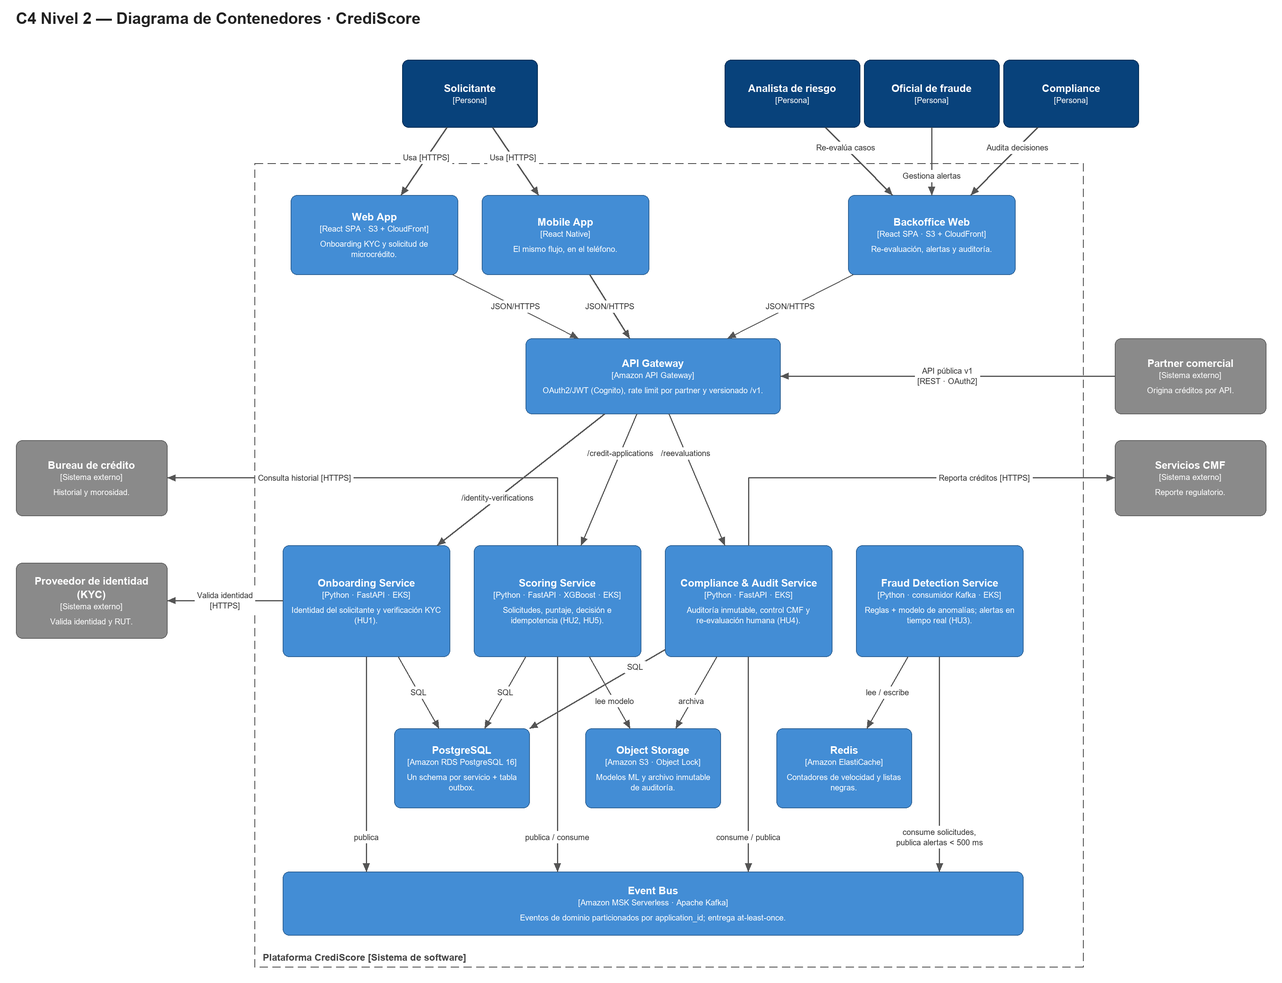
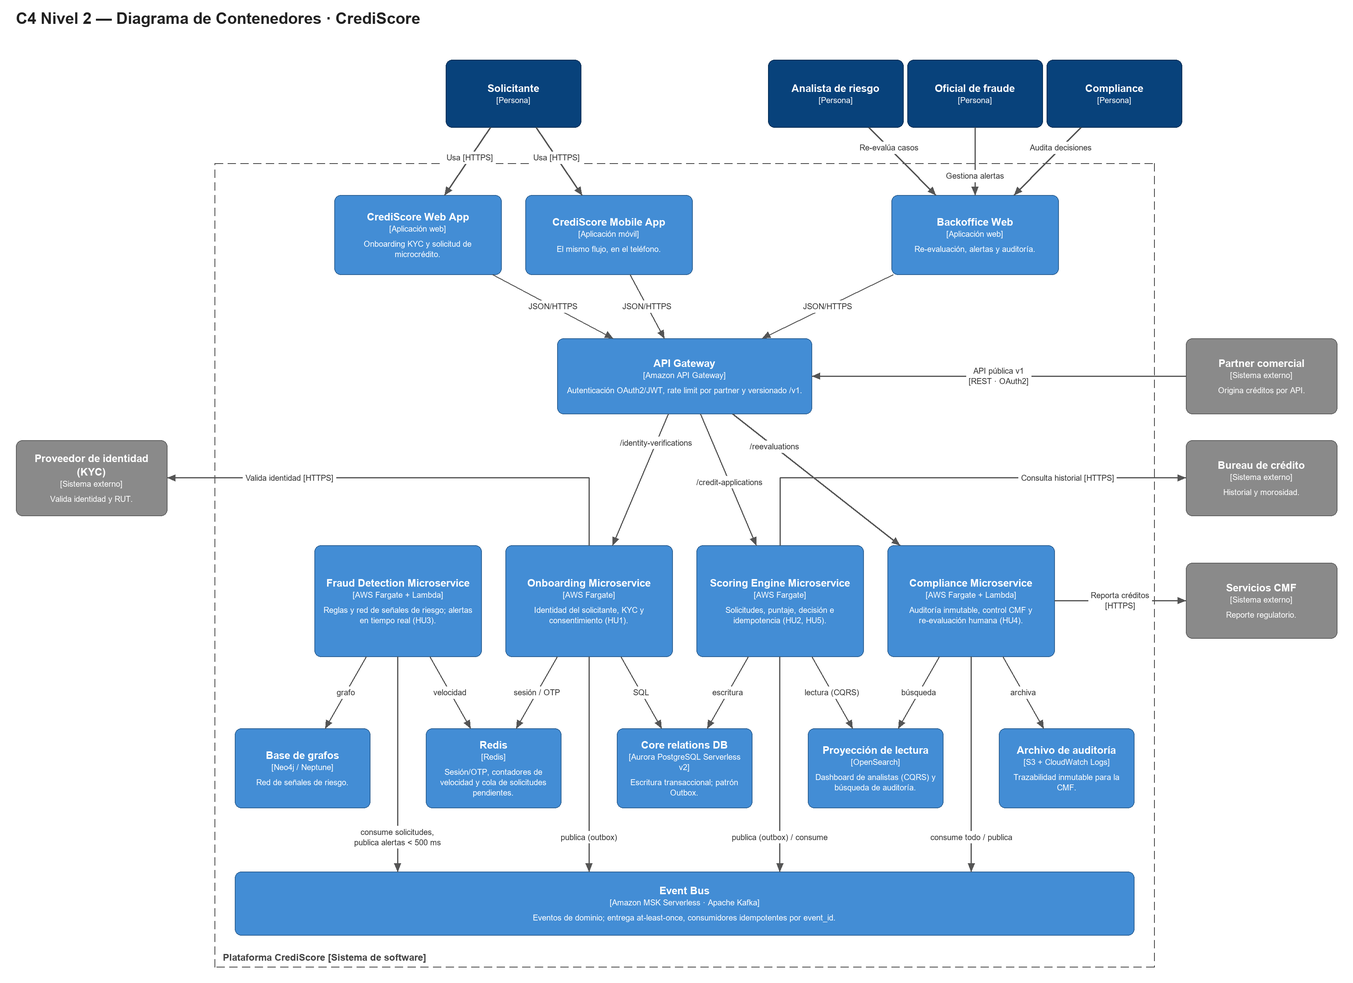
docs(s04): alinea ADR 0003, checklist y C4 L2 a la presentacion de S04
El contenido de S04 mergeado en el PR #1 no coincidia con lo que el equipo presento el 9 de septiembre.
- ADR 0003: AWS, despliegue hibrido (Fargate + Lambda), Aurora PostgreSQL Serverless v2, MSK Serverless.
- Checklist 12-Factor: estados, acciones y responsables de la presentacion (3 cumple, 9 no cumple).
- Servicios gestionados: los 5 de la presentacion mas los motores de S06.
- C4 L2: nombres de contenedores y tecnologias de la presentacion.

diff --git a/docs/adr/0003-cloud-style.md b/docs/adr/0003-cloud-style.md
@@ -1,46 +1,55 @@
-# ADR 0003: Estilo cloud y plataforma de despliegue
+# ADR 0003: Estilo cloud y servicios gestionados
 
-**Fecha:** 2026-10-01  
+**Fecha:** 2026-09-09 (decisión presentada en la S04; documentada en el repositorio el 2026-10-01)  
 **Estado:** Aceptado  
-**Relacionado con:** [ADR 0002](0002-estilo-arquitectonico.md) (estilo arquitectónico), [ADR 0004](0004-datos-y-eventos.md) (datos y eventos)
+**Relacionado con:** [ADR 0002](0002-estilo-arquitectonico.md), [checklist 12-Factor](../12-factor-checklist.md), [servicios gestionados](../arch/managed-services.md)
 
 ## Contexto
-El ADR 0002 eligió microservicios orientados a eventos. Esa decisión tiene un costo que no quedó acotado: el equipo es de 6 personas, sin SRE dedicado, y el criterio del taller dice que con menos de 15 personas y un MVP lo adecuado es un monolito modular. Hay que decidir cómo se despliega en la nube sin que la operación se coma al equipo.
+El ADR 0002 definió microservicios orientados a eventos. Falta fijar tres decisiones para poder desplegar:
 
-Fuerzas en juego:
-* **Latencia:** alertas de fraude propagadas en < 500 ms y decisión de crédito en < 60 s p95.
-* **Perfiles de carga distintos:** el camino de fraude es asíncrono y de ráfagas; el scoring es inferencia de ML y se vuelve a liberar con cada reentrenamiento.
-* **Capacidad operacional:** un solo DevSecOps. Nadie puede operar un clúster de Kafka un sábado.
-* **Curso:** las sesiones S07 y S08 trabajan con manifiestos de Kubernetes y GitOps.
+1. El proveedor cloud tentativo (AWS, Azure o GCP).
+2. El estilo de despliegue: monolito modular, microservicios en contenedores, serverless o un modelo híbrido.
+3. Qué *backing services* opera el equipo y cuáles se delegan al proveedor.
+
+Restricciones que condicionan la decisión: decisión de crédito en < 60 s p95, propagación de fraude en < 500 ms, idempotencia estricta, trazabilidad inmutable para auditorías CMF y un equipo de 6 personas sin SRE dedicado 24/7.
 
 ## Decisión
-Microservicios **acotados a 4 servicios desplegables** (Onboarding, Scoring, Fraud Detection, Compliance & Audit) sobre **AWS**, con **todo lo que no es núcleo del producto delegado a servicios gestionados**: Amazon EKS, API Gateway, RDS PostgreSQL, MSK Serverless, ElastiCache, S3, Cognito y Secrets Manager. La selección por contenedor está en [managed-services.md](../arch/managed-services.md).
 
-Reglas que acotan el costo:
-1. No se crea un quinto servicio sin un ADR nuevo.
-2. Un solo monorepo y una sola instancia de RDS con un schema por servicio; ningún servicio lee el schema de otro.
-3. Los servicios se comunican por eventos. La única llamada síncrona entre contenedores es la del API Gateway hacia cada servicio.
+**Proveedor cloud tentativo: AWS.** Encaja con Apache Kafka (ADR 0002) a través de Amazon MSK y ofrece el ecosistema gestionado más maduro para arquitecturas de eventos.
+
+**Estilo de despliegue: híbrido.**
+* **Contenedores (AWS Fargate)** para Onboarding, Scoring y la validación síncrona de Fraude. No tienen *cold starts* y sostienen el p95 de 60 s.
+* **Serverless (AWS Lambda)** para los consumidores asíncronos del Event Bus: notificaciones, reportes CMF por lotes y *feature engineering*.
+
+**Backing services gestionados:**
+
+| Necesidad | Servicio |
+| :--- | :--- |
+| Entrada de la API | Amazon API Gateway |
+| Base relacional | Amazon Aurora PostgreSQL Serverless v2 |
+| Event Bus | Amazon MSK Serverless |
+| Configuración y secretos | AWS Secrets Manager |
+| Logs | Amazon CloudWatch Logs + OpenSearch |
+| Artefactos y modelos de ML | Amazon S3 |
+
+El detalle por contenedor está en [managed-services.md](../arch/managed-services.md). Los motores de datos de cada contexto se deciden en el [ADR 0004](0004-datos-y-eventos.md).
 
 ## Consecuencias
 
 ### Positivas
-* El camino de fraude escala y falla de forma independiente al scoring (*bulkhead*).
-* El Scoring Service se libera con cada modelo nuevo sin tocar onboarding ni auditoría.
-* El equipo no opera brokers, bases de datos ni planos de control: se paga por ellos.
-* Los manifiestos de S07 y el pipeline de S08 se aplican directamente sobre EKS.
+* Cero gestión de servidores en Fargate, MSK y Aurora Serverless: el equipo se enfoca en scoring y fraude, no en infraestructura.
+* Escalado elástico alineado a los atributos de latencia y a los picos de fraude.
+* Costos variables (pago por uso), razonables para un MVP académico.
+* Logs inmutables (CloudWatch + S3) y CloudTrail facilitan las auditorías CMF.
 
 ### Negativas
-* Costo fijo mensual mayor que el de un monolito en un solo contenedor (EKS, MSK y RDS cobran aunque no haya tráfico).
-* Consistencia eventual entre servicios: una solicitud puede verse `received` mientras fraude y scoring aún no terminan.
-* Depurar un flujo exige trazas distribuidas (`trace_id` en cada evento y cada log) desde el primer día.
-* Acoplamiento a AWS. Se mitiga usando interfaces estándar: SQL, protocolo Kafka, API S3 y OIDC.
-
-### Plan de repliegue
-Si a la S12 el equipo no logra operar 4 servicios, Onboarding y Compliance & Audit se fusionan en un solo desplegable. Fraud Detection y Scoring se mantienen separados porque son los que justifican la decisión.
+* *Vendor lock-in* parcial a AWS (MSK, Aurora); se mitiga con Ports & Adapters.
+* *Cold start* de Lambda si se usa en el camino síncrono crítico; por eso se limita a consumidores asíncronos.
+* Requiere gobierno de costos (FinOps) sobre MSK y Aurora cuando crezca el tráfico.
+* Curva de aprendizaje del equipo en servicios gestionados de AWS.
 
 ## Alternativas descartadas
-* **Monolito modular en un solo contenedor:** es lo que recomienda el criterio de tamaño de equipo y sería más barato y simple. Se descarta porque obliga a escalar juntos el consumo de eventos de fraude y la inferencia de ML, y porque cada reentrenamiento redeplegaría todo el sistema. Es el plan de repliegue parcial descrito arriba.
-* **Serverless (Lambda + API Gateway):** costo por uso y cero servidores. Se descarta por los *cold starts* al cargar el modelo de ML y porque no garantiza la propagación de fraude en < 500 ms.
-* **ECS Fargate en vez de EKS:** menos operación que Kubernetes. Se descarta porque el curso usa manifiestos de Kubernetes, Helm y GitOps en S07 y S08; con ECS habría que mantener dos formas de desplegar.
-* **Kafka autogestionado en EC2:** más barato en infraestructura. Se descarta por la regla del "sábado a las 3 PM": exige operar brokers, particiones y actualizaciones sin un SRE.
-* **Azure o GCP:** equivalentes funcionales. Se elige AWS porque MSK Serverless ofrece el protocolo Kafka que el ADR 0002 ya asume, sin administrar brokers.
+* **Monolito modular sobre EC2 o máquinas virtuales:** no permite escalar el motor de fraude de forma independiente del scoring; el escalado vertical no sostiene los picos de fraude.
+* **100% serverless (Lambda + DynamoDB + SQS):** los *cold starts* ponen en riesgo el p95 del camino síncrono, y DynamoDB no encaja con el modelo relacional y transaccional del core de créditos.
+* **Kubernetes autogestionado o Kafka en EC2:** regla del "sábado a las 3 PM"; el equipo no tiene un SRE dedicado para operar el clúster.
+* **Multi-cloud desde el día 1:** complejidad injustificada para un MVP. Queda como evolución futura (recuperación ante desastres), mitigada por Ports & Adapters.

diff --git a/docs/12-factor-checklist.md b/docs/12-factor-checklist.md
@@ -1,26 +1,31 @@
 # Checklist 12-Factor — CrediScore
 
-Auditoría del diseño ([C4 L2](c4/l2-container.png), [ADR 0003](adr/0003-cloud-style.md)) contra los 12 factores. El repositorio todavía no tiene código, así que **Cumple** significa que el diseño ya lo resuelve y **No cumple** que hay una brecha con una acción asignada.
+Auditoría del diseño ([C4 L2](c4/l2-container.png)) contra los 12 factores, presentada en la S04. El repositorio todavía no tiene código: **Cumple** significa que el diseño ya lo resuelve y **No cumple** que hay una brecha con acción y responsable. Las decisiones de plataforma están en el [ADR 0003](adr/0003-cloud-style.md).
 
-| # | Factor | Estado | Evidencia o brecha | Acción | Responsable |
-| :-: | :--- | :--- | :--- | :--- | :--- |
-| 01 | Codebase | No cumple | El repo solo tiene documentación; los 4 servicios compartirán un monorepo. | Un directorio por servicio (`services/<servicio>/`) con build y pipeline propios. Prohibido copiar código entre servicios: lo compartido son los contratos (`api/`, catálogo de eventos). | Tech Lead |
-| 02 | Dependencies | No cumple | No hay manifiestos de dependencias. | `pyproject.toml` + lockfile por servicio, `package-lock.json` en los frontends e imágenes Docker sin librerías instaladas a mano. | DevSecOps |
-| 03 | Config | Cumple | Toda la configuración entra por variables de entorno (`DATABASE_URL`, `KAFKA_BOOTSTRAP_SERVERS`, `REDIS_URL`, `KYC_API_URL`, `BUREAU_API_URL`, `MODEL_URI`); los secretos viven en AWS Secrets Manager. | Publicar `.env.example` por servicio; `.env` ya está en `.gitignore`. | DevSecOps |
-| 04 | Backing services | Cumple | PostgreSQL, Kafka, Redis, S3, KYC y bureau se adjuntan por URL; cambiar de proveedor no exige recompilar. | Acceder a KYC y bureau detrás de una interfaz (Ports & Adapters) para poder simularlos. | Tech Lead |
-| 05 | Build, release, run | No cumple | No existe pipeline. | GitHub Actions construye una imagen por commit (tag = SHA) y la publica en ECR; release = imagen + configuración del ambiente; nunca se edita en ejecución. Se implementa en S08. | DevSecOps |
-| 06 | Processes | Cumple | Los servicios no guardan estado: solicitudes y claves de idempotencia en PostgreSQL, contadores de fraude en Redis, modelo de ML de solo lectura. | Prohibir sesiones en memoria en la revisión de PR. | Tech Lead |
-| 07 | Port binding | Cumple | Cada servicio expone HTTP con uvicorn en `$PORT`; no depende de un servidor de aplicaciones externo. | — | Tech Lead |
-| 08 | Concurrency | Cumple | Tres tipos de proceso por servicio (`web`, `consumer`, `outbox-relay`) que escalan por réplicas; el consumo se reparte con particiones y *consumer groups* de Kafka. | Definir HPA por tipo de proceso en S07. | DevSecOps |
-| 09 | Disposability | No cumple | El Scoring Service carga el modelo de ML al arrancar, lo que alarga el inicio. | *Readiness probe* que solo pasa con el modelo cargado; al recibir SIGTERM se deja de consumir, se confirman offsets y se termina en < 30 s. Medir el arranque y fijar un máximo de 20 s. | AI/Data |
-| 10 | Dev/prod parity | No cumple | No hay ambiente de desarrollo definido. | `docker-compose` con PostgreSQL 16, Kafka y Redis en las mismas versiones mayores que producción, LocalStack para S3 y Prism para simular KYC y bureau. Prohibido SQLite. | QA |
-| 11 | Logs | Cumple | Logs JSON a stdout con `trace_id` y `application_id`, recolectados por CloudWatch. | Enmascarar el RUT y no registrar datos personales; añadir una prueba que falle si aparece un RUT en los logs. | QA |
-| 12 | Admin processes | No cumple | No hay mecanismo de migraciones ni tareas puntuales. | Migraciones con Alembic como *Job* de Kubernetes desde la misma imagen; el control normativo diario (HU4) y el reentrenamiento como *CronJob*. Nada por SSH. | DevSecOps |
+| # | Factor | Estado | Acción concreta | Responsable |
+| :-: | :--- | :--- | :--- | :--- |
+| 01 | Codebase | No cumple | Un repositorio por servicio, con pipeline de CI independiente. | Martin Jara |
+| 02 | Dependencies | No cumple | Manifiesto de dependencias aislado e imagen Docker propia por servicio. | Benjamín Garrido |
+| 03 | Config | No cumple | Variables de entorno + AWS Secrets Manager; sin archivos `config.*.json` en el repo. | Martin Jara |
+| 04 | Backing services | Cumple | Formalizar base de datos, Event Bus y KYC como URL inyectada por variable de entorno. | Benjamín Garrido |
+| 05 | Build, release, run | No cumple | CI/CD: build → imagen versionada en ECR → deploy. | Martin Jara |
+| 06 | Processes | Cumple | Confirmar que los servicios son *stateless*: sesión vía JWT, sin estado local. | Abdiel Ortiz / Nelson Arevalo |
+| 07 | Port binding | Cumple | Cada imagen expone su propio puerto, sin servidor de aplicaciones externo. | Benjamín Garrido |
+| 08 | Concurrency | No cumple | Auto-scaling horizontal (ECS) en Scoring y Fraude. | Martin Jara |
+| 09 | Disposability | No cumple | *Graceful shutdown* (SIGTERM < 30 s) en los microservicios. | Justin Navarro |
+| 10 | Dev/prod parity | No cumple | Docker Compose local con PostgreSQL y Kafka reales. | Justin Navarro |
+| 11 | Logs | No cumple | JSON a stdout, centralizado en CloudWatch / OpenSearch. | Martin Jara |
+| 12 | Admin processes | No cumple | Migraciones (Flyway) como *Job* del mismo pipeline. | Martin Jara |
 
 ## Resumen
 
-* **Cumple:** 6 de 12 (03, 04, 06, 07, 08, 11).
-* **No cumple:** 6 de 12 (01, 02, 05, 09, 10, 12); todos tienen acción y responsable.
+* **Cumple:** 3 de 12 (04, 06, 07).
+* **No cumple:** 9 de 12; todos con acción y responsable.
 * **No aplica:** ninguno.
 
-Los factores 01, 02, 05, 10 y 12 se cierran al crear el esqueleto de servicios y el pipeline (S07 y S08). El 09 depende del tamaño del modelo y se verifica con una medición, no con una revisión de diseño.
+## Brechas prioritarias antes de desplegar
+
+1. **Build, release, run (05).** Sin pipeline las tres etapas se mezclan: no hay forma de garantizar que lo que se prueba es lo que se despliega.
+2. **Concurrency (08).** Scoring y Fraude deben escalar horizontalmente de forma independiente para sostener la propagación de fraude en < 500 ms bajo carga.
+3. **Disposability (09).** Un cierre no controlado puede perder eventos de fraude en vuelo y romper la idempotencia y la trazabilidad CMF.
+4. **Logs (11).** Sin logs estructurados y centralizados no se puede auditar una decisión de crédito ante la CMF.

diff --git a/docs/arch/managed-services.md b/docs/arch/managed-services.md
@@ -1,28 +1,24 @@
 # Servicios gestionados por contenedor
 
-Selección en AWS para cada contenedor del [C4 L2](../c4/l2-container.png), según el marco de decisión de la S04: se construye solo lo que diferencia al producto (scoring, reglas de fraude, auditoría) y se delega lo demás. La justificación del estilo está en el [ADR 0003](../adr/0003-cloud-style.md).
+Selección en AWS para los contenedores del [C4 L2](../c4/l2-container.png). Criterio base, del [ADR 0003](../adr/0003-cloud-style.md): lo que diferencia al producto se construye; si existe un servicio gestionado maduro, se usa; sin SRE dedicado, la operación se delega.
 
-| Contenedor | Servicio gestionado | Por qué | Alternativa descartada |
-| :--- | :--- | :--- | :--- |
-| Web App, Backoffice Web | **Amazon S3 + CloudFront** | Son SPA estáticas: no necesitan servidores y el CDN acerca el contenido al usuario. | Servir los estáticos desde un contenedor: más costo y nada a cambio. |
-| API Gateway | **Amazon API Gateway (HTTP API)** | Valida JWT, limita 100 req/min por partner y versiona `/v1` sin código propio. | Kong o Envoy en EKS: hay que operarlos y actualizarlos. |
-| Autenticación | **Amazon Cognito** | Emite tokens OAuth2 *client credentials* para partners y sesiones para analistas. La autenticación no diferencia al producto. | Keycloak autogestionado: otro servicio con estado que mantener. |
-| Onboarding, Scoring, Fraud Detection, Compliance & Audit | **Amazon EKS** (nodos gestionados) | AWS opera el plano de control; el equipo solo mantiene manifiestos, que son los mismos de S07 y S08. | ECS Fargate: más simple, pero incompatible con el flujo Kubernetes del curso. |
-| PostgreSQL | **Amazon RDS for PostgreSQL 16** (Multi-AZ) | Backups, parches y failover automáticos. Una instancia con un schema por servicio. | Aurora: el volumen del MVP no justifica su costo. |
-| Event Bus | **Amazon MSK Serverless** | Protocolo Kafka sin administrar brokers ni capacidad; conserva el *replay* que pide la auditoría. | SNS + SQS: menos operación, pero sin *replay* ni orden por clave. |
-| Redis | **Amazon ElastiCache for Redis** | Contadores de velocidad con TTL y listas negras con lectura en milisegundos. | DynamoDB: sirve, pero los contadores con ventana son más simples en Redis. |
-| Object Storage | **Amazon S3 con Object Lock** | Modo *compliance*: ni el administrador puede borrar el archivo de auditoría durante la retención. Guarda también los modelos versionados. | Guardar el archivo en PostgreSQL: un `DELETE` con permisos suficientes lo destruye. |
-| Secretos | **AWS Secrets Manager** | Rotación automática de credenciales de RDS y de las llaves de KYC y bureau. | Variables en el repositorio: viola el factor 03. |
-| Logs, métricas y trazas | **Amazon CloudWatch + AWS Distro for OpenTelemetry** | Recolecta stdout y propaga el `trace_id` entre servicios y eventos. | Stack Prometheus/Grafana/Loki propio: se evalúa en S11. |
-| Imágenes | **Amazon ECR** | Registro privado con escaneo de vulnerabilidades. | Docker Hub: límites de descarga y sin escaneo integrado. |
+## Elegidos en la S04 (ADR 0003)
 
-## Lo que sí construye el equipo
+| Contenedor L2 | Servicio AWS | Criterio de elección |
+| :--- | :--- | :--- |
+| API Gateway | **Amazon API Gateway** | Servicio maduro: centraliza autenticación, *rate limiting* y versionado sin construirlo. |
+| Onboarding / Scoring / Fraud Microservices | **AWS Fargate (ECS)** | El diferenciador es el modelo y las reglas, no el cómputo: se delega la operación de contenedores. |
+| Consumidores asíncronos del Event Bus | **AWS Lambda** | Notificaciones, reportes CMF por lotes y *feature engineering*; fuera del camino síncrono. |
+| Core relations DB | **Aurora PostgreSQL Serverless v2** | Motor relacional con auto-scaling; ACID nativo para la idempotencia de las transacciones de crédito. |
+| Event Bus | **Amazon MSK Serverless** | Kafka ya elegido en el ADR 0002; MSK delega la operación del clúster. |
+| Configuración y logs | **Secrets Manager + CloudWatch Logs** | Resuelven el factor 03 (Config) y el factor 11 (Logs) sin construir nada propio. |
+| Imágenes | **Amazon ECR** | Registro de las imágenes versionadas del factor 05. |
 
-* **Modelo y servicio de scoring:** variables, entrenamiento, métricas de fairness y explicabilidad.
-* **Reglas y modelo de fraude.**
-* **Log de auditoría y flujo de re-evaluación humana.**
-* **Contrato de la API pública** ([api/openapi.yaml](../../api/openapi.yaml)).
+## Motores agregados en la S06 (ADR 0004)
 
-## Riesgos de costo
-
-MSK Serverless, EKS y RDS Multi-AZ tienen costo fijo aunque no haya tráfico. En el ambiente de desarrollo se reemplazan por contenedores locales (ver factor 10 del [checklist 12-Factor](../12-factor-checklist.md)). El costo real se mide en S15 (FinOps).
+| Contenedor L2 | Motor | Uso |
+| :--- | :--- | :--- |
+| Proyección de lectura | **OpenSearch** | Lado de lectura de CQRS para el dashboard de analistas de riesgo; búsqueda en Cumplimiento. |
+| Redis | **Redis** | Sesión y OTP en Onboarding; contadores de velocidad en Antifraude; cola de solicitudes pendientes para analista y oficial. |
+| Base de grafos | **Neo4j / Neptune** | Red de señales de riesgo de Antifraude. |
+| Archivo de auditoría | **S3 + CloudWatch Logs** | Archivo inmutable: trazabilidad para la CMF. |

diff --git a/docs/arch/trazabilidad-backlog-contenedor.md b/docs/arch/trazabilidad-backlog-contenedor.md
@@ -4,11 +4,11 @@ Cada historia del [backlog](../product/backlog.md) se mapea al atributo de calid
 
 | Historia | Atributo que la condiciona | Contenedores | Sistemas externos | Por qué ahí |
 | :--- | :--- | :--- | :--- | :--- |
-| **HU1** — Onboarding KYC | Rendimiento: identidad confirmada en < 10 s. | Web App, Mobile App, API Gateway, Onboarding Service, PostgreSQL (schema `identity`), Event Bus. | Proveedor de identidad (KYC). | La identidad es un contexto propio: guarda datos personales y depende de un tercero que puede caer sin detener el resto. |
-| **HU2** — Scoring | Rendimiento: decisión en < 60 s p95. Fairness: sin género ni comuna como variables. | Scoring Service, PostgreSQL (schema `origination`), Object Storage (modelo versionado), Event Bus. | Bureau de crédito. | La inferencia de ML escala y se libera con una cadencia distinta al resto (reentrenamientos). |
-| **HU3** — Antifraude | Rendimiento: alerta propagada en < 500 ms. | Fraud Detection Service, Redis, Event Bus, Backoffice Web (vía Compliance & Audit Service). | — | El camino de fraude es asíncrono y se aísla para que la carga de scoring no lo degrade. |
-| **HU4** — Cumplimiento CMF | Trazabilidad: registro inmutable de cada decisión. | Compliance & Audit Service, Backoffice Web, PostgreSQL (schema `compliance`), Object Storage (Object Lock), Event Bus. | Servicios CMF. | Consume todos los eventos de dominio y los archiva; la re-evaluación humana vive junto al log de auditoría. |
-| **HU5** — API partner idempotente | Confiabilidad: reintentos sin duplicados. | API Gateway, Scoring Service, PostgreSQL (tabla `idempotency_key`). | Partner comercial. | El gateway autentica y limita por partner; la clave de idempotencia se guarda en la misma transacción que la solicitud. |
+| **HU1** — Onboarding KYC | Rendimiento: identidad confirmada en < 10 s. | Web App, Mobile App, API Gateway, Onboarding Microservice, Core relations DB (Aurora), Redis, Event Bus. | Proveedor de identidad (KYC). | La identidad es un contexto propio: guarda datos personales y depende de un tercero que puede caer sin detener el resto. |
+| **HU2** — Scoring | Rendimiento: decisión en < 60 s p95. Fairness: sin género ni comuna como variables. | Scoring Engine Microservice, Core relations DB (Aurora), Proyección de lectura (OpenSearch), Event Bus. | Bureau de crédito. | El motor de scoring escala de forma independiente del motor de fraude (ADR 0002). |
+| **HU3** — Antifraude | Rendimiento: alerta propagada en < 500 ms. | Fraud Detection Microservice, Base de grafos, Redis, Event Bus, Backoffice Web. | — | El camino de fraude se aísla para que la carga de scoring no lo degrade. |
+| **HU4** — Cumplimiento CMF | Trazabilidad: registro inmutable de cada decisión. | Compliance Microservice, Backoffice Web, Proyección de lectura (OpenSearch), Archivo de auditoría (S3), Event Bus. | Servicios CMF. | Consume todos los eventos de dominio y los archiva; la re-evaluación humana vive junto al registro de auditoría. |
+| **HU5** — API partner idempotente | Confiabilidad: reintentos sin duplicados. | API Gateway, Scoring Engine Microservice, Core relations DB (Aurora). | Partner comercial. | El gateway autentica y limita por partner; la clave de idempotencia se guarda en la misma transacción que la solicitud. |
 
 ## Cobertura inversa
 
@@ -17,13 +17,15 @@ Cada historia del [backlog](../product/backlog.md) se mapea al atributo de calid
 | Web App / Mobile App | HU1, HU2 |
 | Backoffice Web | HU3, HU4 |
 | API Gateway | HU1, HU2, HU4, HU5 |
-| Onboarding Service | HU1 |
-| Scoring Service | HU2, HU5 |
-| Fraud Detection Service | HU3 |
-| Compliance & Audit Service | HU3, HU4 |
-| PostgreSQL | HU1, HU2, HU4, HU5 |
-| Redis | HU3 |
-| Object Storage | HU2, HU4 |
-| Event Bus | HU1, HU2, HU3, HU4 |
+| Onboarding Microservice | HU1 |
+| Scoring Engine Microservice | HU2, HU5 |
+| Fraud Detection Microservice | HU3 |
+| Compliance Microservice | HU4 |
+| Core relations DB (Aurora PostgreSQL) | HU1, HU2, HU5 |
+| Redis | HU1, HU3 |
+| Base de grafos (Neo4j / Neptune) | HU3 |
+| Proyección de lectura (OpenSearch) | HU2, HU4 |
+| Archivo de auditoría (S3) | HU4 |
+| Event Bus (MSK) | HU1, HU2, HU3, HU4 |
 
 Ningún contenedor queda sin historia y ninguna historia queda sin contenedor.

diff --git a/docs/adr/0002-estilo-arquitectonico.md b/docs/adr/0002-estilo-arquitectonico.md
@@ -29,7 +29,7 @@ Hemos elegido una **Arquitectura de Microservicios Orientada a Eventos (EDA)**.
 ## Alternativas descartadas
 > Enmienda del 2026-10-01: se agrega esta sección, exigida por la estructura mínima de ADR del taller. La decisión no cambia.
 
-* **Monolito modular:** es la opción natural para un equipo de 6 personas y un MVP (deploy único, transacciones ACID). Se descarta porque acopla el escalado del camino de fraude (< 500 ms) con la inferencia de ML, que tienen perfiles de carga y cadencias de release distintos. Queda como plan de repliegue: ver [ADR 0003](0003-cloud-style.md).
+* **Monolito modular:** es la opción natural para un equipo de 6 personas y un MVP (deploy único, transacciones ACID). Se descarta porque acopla el escalado del camino de fraude (< 500 ms) con la inferencia de ML, que tienen perfiles de carga y cadencias de release distintos.
 * **Serverless puro (FaaS):** se descarta porque los *cold starts* y la carga del modelo en cada arranque son incompatibles con la propagación de fraude en < 500 ms.
 
-El costo operacional de esta decisión se acota en el [ADR 0003](0003-cloud-style.md) (4 servicios sobre servicios gestionados) y la semántica de entrega e idempotencia se precisa en el [ADR 0004](0004-datos-y-eventos.md).
+El costo operacional de esta decisión se acota en el [ADR 0003](0003-cloud-style.md) (despliegue híbrido sobre servicios gestionados de AWS) y la semántica de entrega e idempotencia se precisa en el [ADR 0004](0004-datos-y-eventos.md).
